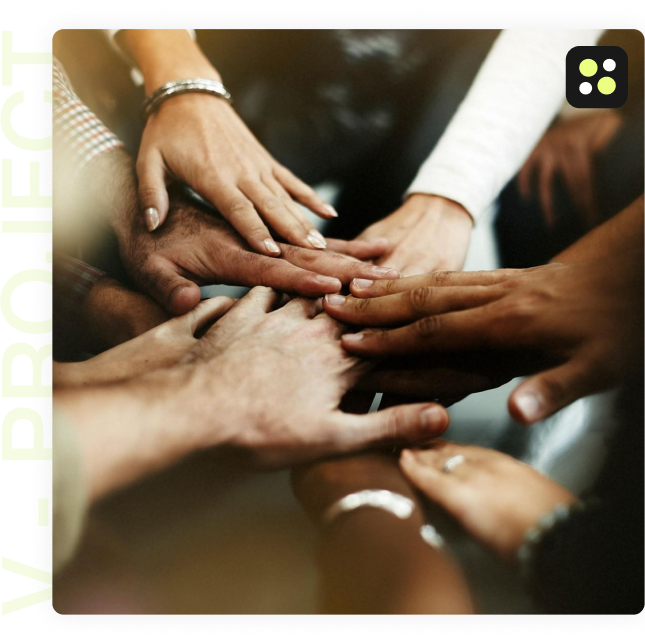
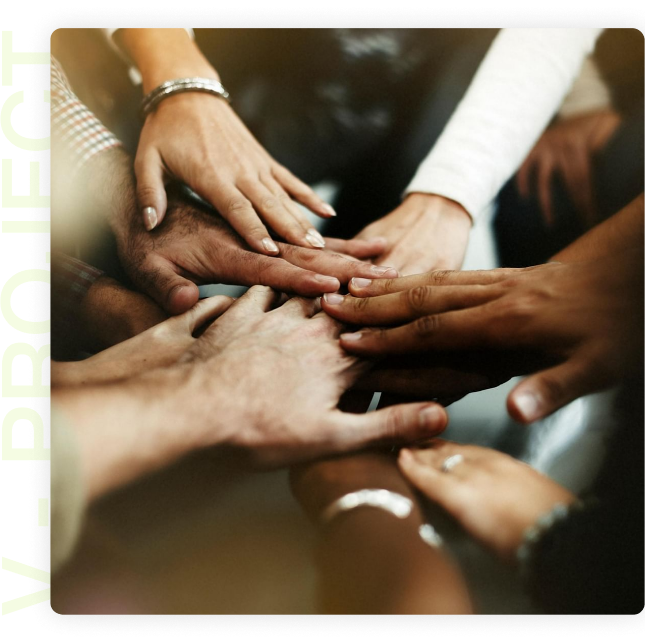
update

diff --git a/assets/css/contacts.css b/assets/css/contacts.css
@@ -391,14 +391,24 @@ button {
         color: #191919;
     }
     .about__right {
+        position: relative;
         display: flex;
         justify-content: end;
     }
     .about__img {
-        width: 42vw;
+        width: 41vw;
         height: 40vw;
         max-width: 644px;
         max-height: 635px;
+    }
+    .about__logo {
+        position: absolute;
+        top: 2.7vw;
+        right: 1.14vw;
+        width: 3.88vw;
+        height: 3.88vw;
+        max-width: 62px;
+        max-height: 62px;
     }
 }
 @media (min-width: 1600px) {
@@ -417,6 +427,10 @@ button {
         margin-bottom: 12px;
         font-size: 24.44px;
         line-height: 26.67px;
+    }
+    .about__logo {
+        top: 44px;
+        right: 17px;
     }
 }
 

diff --git a/contacts.html b/contacts.html
@@ -62,6 +62,7 @@
         </div>
         <div class="about__right">
             <img src="assets/img/together-hands-team.png" alt="img" class="about__img">
+            <img src="assets/svg/logo-with-bg.svg" alt="logo" class="about__logo desktop">
         </div>
     </div>
     <div class="vote _container">
